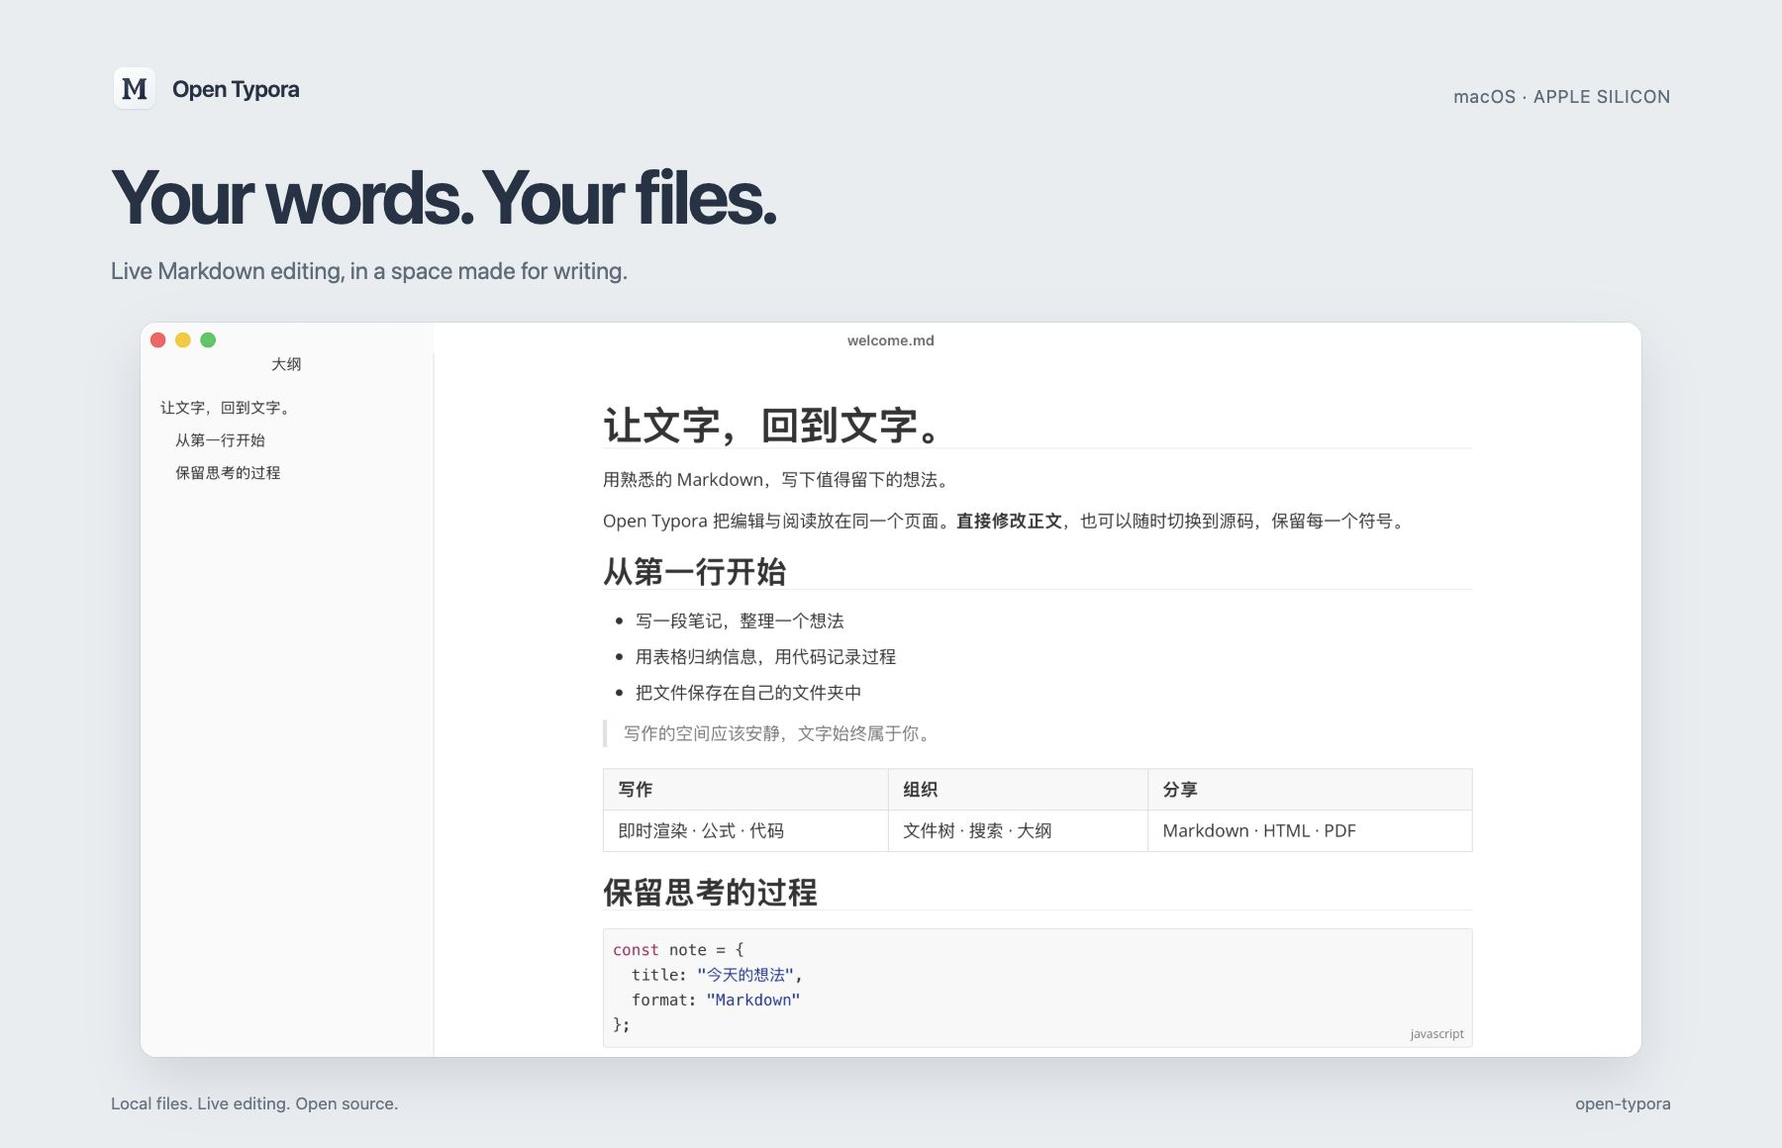
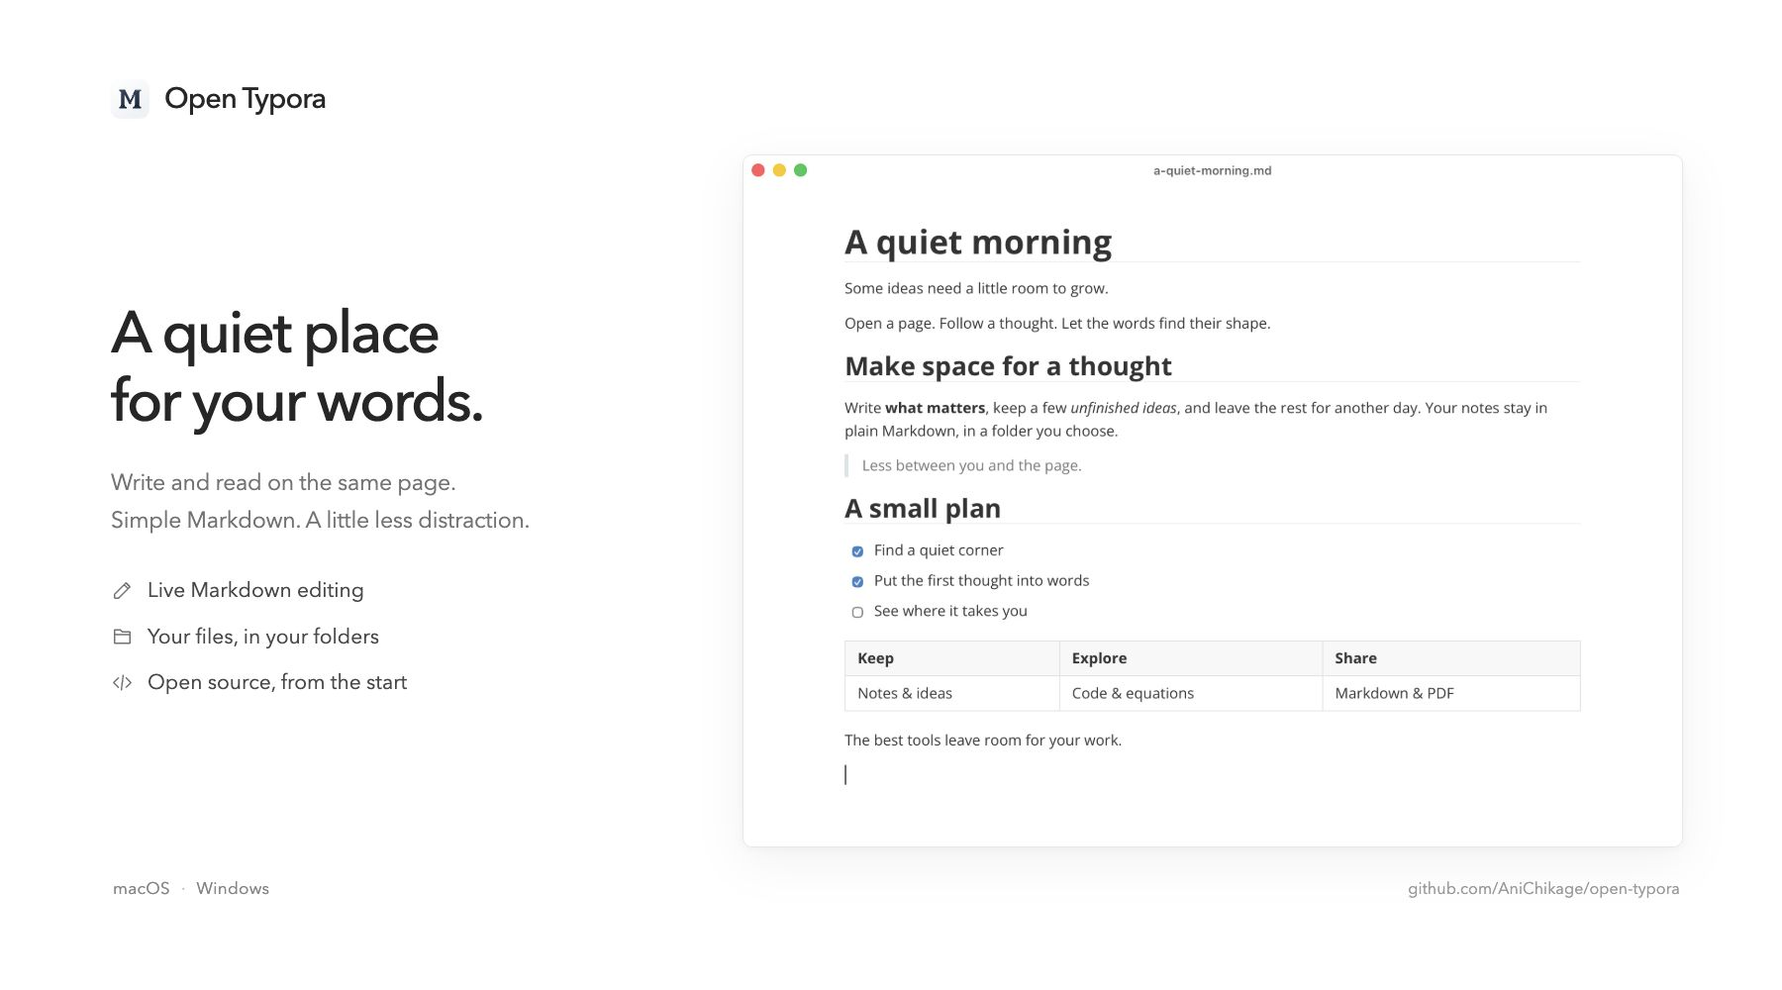
Present the editor in English and document macOS and Windows downloads

diff --git a/design/presentation/hero.html b/design/presentation/hero.html
@@ -1,25 +1,24 @@
 <!doctype html>
 <html lang="en">
 <meta charset="utf-8">
-<title>Open Typora · Product image</title>
+<meta name="viewport" content="width=device-width,initial-scale=1">
+<title>Open Typora — A quiet place for your words</title>
 <style>
-*{box-sizing:border-box}html,body{margin:0;width:1800px;height:1160px;overflow:hidden}body{font-family:-apple-system,BlinkMacSystemFont,"Helvetica Neue","PingFang SC",sans-serif;color:#243247;background:#e9edf0}.canvas{width:1800px;height:1160px;position:relative;padding:65px 112px}.brand{display:flex;align-items:center;gap:14px;font-size:23px;font-weight:600;letter-spacing:-.5px}.brand img{width:48px;height:48px}.platform{position:absolute;right:112px;top:86px;color:#5f6c7a;font-size:18px;letter-spacing:1px}.title{font-size:76px;line-height:1.1;letter-spacing:-3px;font-weight:650;margin:42px 0 16px}.subtitle{margin:0;color:#5e6c7c;font-size:24px;line-height:1.5}.window{position:absolute;left:142px;top:326px;width:1516px;height:742px;border-radius:16px;overflow:hidden;background:#fff;box-shadow:0 22px 54px #24324722,0 0 0 1px #24324712}.window img{display:block;width:100%;height:auto}.footer{position:absolute;bottom:36px;left:112px;color:#667485;font-size:17px;letter-spacing:.2px}.footer-right{left:auto;right:112px}.zh .title{font-size:75px;letter-spacing:1px;font-weight:600}
+*{box-sizing:border-box}html,body{margin:0;width:1800px;height:1000px;overflow:hidden}body{font-family:"Avenir Next",Avenir,"Segoe UI",sans-serif;color:#262626;background:#fff}.canvas{position:relative;width:1800px;height:1000px}.brand{position:absolute;top:78px;left:110px;display:flex;align-items:center;gap:13px;font-size:29px;font-weight:500;letter-spacing:-.9px}.brand img{width:43px;height:43px}.copy{position:absolute;left:112px;top:302px;width:558px}.copy h1{font-size:59px;line-height:1.18;letter-spacing:-2.1px;font-weight:500;margin:0 0 28px}.description{font-size:23px;line-height:1.65;letter-spacing:-.25px;color:#737373;margin:0;max-width:475px}.features{margin:37px 0 0;padding:0;list-style:none;display:grid;gap:18px;font-size:21px;color:#494949}.features li{display:flex;align-items:center;gap:14px}.features svg{width:23px;height:23px;fill:none;stroke:#727272;stroke-width:1.5;stroke-linecap:round;stroke-linejoin:round}.window{position:absolute;left:750px;top:156px;width:950px;height:700px;border-radius:10px;overflow:hidden;background:white;border:1px solid #e7e7e7;box-shadow:0 14px 48px #0000000e,0 2px 7px #00000008}.window img{display:block;width:100%;height:auto}.platform{position:absolute;left:114px;bottom:91px;font-size:17px;color:#858585;letter-spacing:.25px}.platform span{padding:0 11px;color:#c4c4c4}.credit{position:absolute;right:103px;bottom:91px;font:16px "Avenir Next",Avenir,sans-serif;color:#999;letter-spacing:.1px}
 </style>
 <main class="canvas">
   <div class="brand"><img src="../icon.svg" alt="">Open Typora</div>
-  <div class="platform">macOS · APPLE SILICON</div>
-  <h1 class="title">Your words. Your files.</h1>
-  <p class="subtitle">Live Markdown editing, in a space made for writing.</p>
-  <div class="window"><img src="editor-window.png" alt="Actual Open Typora macOS application showing outline navigation, live Markdown, a table and a code block."></div>
-  <div class="footer">Local files. Live editing. Open source.</div>
-  <div class="footer footer-right">open-typora</div>
+  <section class="copy">
+    <h1>A quiet place<br>for your words.</h1>
+    <p class="description">Write and read on the same page.<br>Simple Markdown. A little less distraction.</p>
+    <ul class="features">
+      <li><svg viewBox="0 0 24 24" aria-hidden="true"><path d="M4 20h4L20 8l-4-4L4 16v4Z M14 6l4 4"/></svg>Live Markdown editing</li>
+      <li><svg viewBox="0 0 24 24" aria-hidden="true"><path d="M4 5h6l2 2h8v12H4V5Z M4 10h16"/></svg>Your files, in your folders</li>
+      <li><svg viewBox="0 0 24 24" aria-hidden="true"><path d="m8 7-5 5 5 5m8-10 5 5-5 5m-3-13-2 16"/></svg>Open source, from the start</li>
+    </ul>
+  </section>
+  <div class="window"><img src="editor-window.jpg" alt="The actual Open Typora macOS app editing an English Markdown document, with formatted text, tasks and a table."></div>
+  <div class="platform">macOS<span>·</span>Windows</div>
+  <div class="credit">github.com/AniChikage/open-typora</div>
 </main>
-<script>
-if(new URLSearchParams(location.search).get('lang')==='zh'){
- document.documentElement.lang='zh-CN';document.body.classList.add('zh');
- document.querySelector('.title').textContent='让文字，回到文字。';
- document.querySelector('.subtitle').textContent='直接编辑 Markdown 正文，让写作自然发生。';
- document.querySelector('.footer').textContent='本地文件 · 即时编辑 · 开源';
-}
-</script>
 </html>

diff --git a/README.md b/README.md
@@ -8,14 +8,14 @@
 
 <p align="center">
   English · <a href="README.zh-CN.md">简体中文</a><br>
-  <a href="https://github.com/AniChikage/open-typora/releases/latest">Download for macOS</a> · <a href="#features">Features</a> · <a href="#getting-started">Getting started</a> · <a href="CONTRIBUTING.md">Contributing</a> · <a href="LICENSE">MIT License</a>
+  <a href="https://github.com/AniChikage/open-typora/releases/latest">Download</a> · <a href="#features">Features</a> · <a href="#getting-started">Getting started</a> · <a href="CONTRIBUTING.md">Contributing</a> · <a href="LICENSE">MIT License</a>
 </p>
 
 ![Open Typora — live Markdown editing in the native macOS app](docs/images/hero.png)
 
 Open Typora is an open-source Markdown editor inspired by Typora's inline editing experience. Write directly in the rendered document, switch to source when you need it, and save ordinary `.md` files in your own folders.
 
-**Status:** early development, version **0.5.1**. The supported build target is **macOS 14+ on Apple Silicon**. The interface is currently in Simplified Chinese. This is an independent project, unaffiliated with Typora; full feature and behavior parity is still in progress.
+**Status:** early development, version **0.5.2**. Release builds support **macOS 14+ on Apple Silicon** and **Windows 10/11 x64**. The interface is currently in Simplified Chinese. This is an independent project, unaffiliated with Typora; full feature and behavior parity is still in progress.
 
 ## Features
 
@@ -30,9 +30,24 @@ See the [feature checklist](docs/feature-parity.md) for coverage and known diffe
 
 ## Getting started
 
+### Downloads
+
+| Platform | Installer | Alternative |
+| --- | --- | --- |
+| Windows 10/11 · x64 | **[Download Setup.exe](https://github.com/AniChikage/open-typora/releases/download/v0.5.2/Open-Typora-0.5.2-windows-x64-Setup.exe)** | [ZIP](https://github.com/AniChikage/open-typora/releases/download/v0.5.2/Open-Typora-0.5.2-windows-x64.zip) |
+| macOS 14+ · Apple Silicon | **[Download DMG](https://github.com/AniChikage/open-typora/releases/download/v0.5.2/Open-Typora-0.5.2-arm64.dmg)** | [ZIP](https://github.com/AniChikage/open-typora/releases/download/v0.5.2/Open-Typora-0.5.2-arm64.zip) |
+
+[SHA-256 checksums](https://github.com/AniChikage/open-typora/releases/download/v0.5.2/SHA256SUMS.txt) · [All releases](https://github.com/AniChikage/open-typora/releases)
+
+### Install on Windows
+
+Run **Setup.exe**, choose an installation folder, and launch Open Typora from the Start menu. The installer also provides an optional desktop shortcut and Markdown file associations. Updates install into the same application folder; uninstalling preserves your recovery data.
+
+The Windows build is currently **not code-signed**. Windows may display an unknown-publisher or SmartScreen notice. Only use downloads from this repository's Releases page and verify the checksum if needed.
+
 ### Install on macOS
 
-1. Download **[Open-Typora-0.5.1-arm64.dmg](https://github.com/AniChikage/open-typora/releases/download/v0.5.1/Open-Typora-0.5.1-arm64.dmg)** from [Releases](https://github.com/AniChikage/open-typora/releases/latest).
+1. Download **[Open-Typora-0.5.2-arm64.dmg](https://github.com/AniChikage/open-typora/releases/download/v0.5.2/Open-Typora-0.5.2-arm64.dmg)** from [Releases](https://github.com/AniChikage/open-typora/releases/latest).
 2. Open the DMG and drag **Open Typora** into **Applications**.
 3. Launch Open Typora from Applications.
 
@@ -42,7 +57,7 @@ The application is locally signed and **not Apple-notarized**. macOS may ask you
 
 ### Build from source
 
-Build the macOS application from source. You need **Node.js 26**, npm, and the **Xcode Command Line Tools** (`xcode-select --install`). A Typora installation is not required.
+Both platforms need **Node.js 26** and npm. A Typora installation is not required. On macOS, also install the **Xcode Command Line Tools** (`xcode-select --install`).
 
 ```sh
 git clone https://github.com/AniChikage/open-typora.git
@@ -59,23 +74,29 @@ node scripts/install.mjs
 
 Quit a running Open Typora before replacing it. The installer preserves application data and removes the previous application after verifying the replacement. The build also produces a ZIP in `release/native/`; `npm run package:release` builds the DMG and checksum file too.
 
-Builds use a local ad hoc signature and are **not Apple-notarized**. Intel Macs, Windows, and Linux do not yet have verified release builds.
+On Windows, use the same clone and install steps, then build the installer:
+
+```sh
+npm run package:win
+```
+
+The EXE installer and ZIP are written to `release/windows/`. Build Windows releases on Windows x64. Intel Macs, Windows ARM, and Linux do not yet have verified release builds.
 
 For additional document formats, install [Pandoc](https://pandoc.org/installing.html), then select its executable in Preferences if it is not detected. Pandoc is optional for writing Markdown and exporting HTML/PDF.
 
 ### First steps
 
-Open a Markdown file or a folder, or try [the example document](examples/welcome.md). Click the text to edit it. Enter continues a list or creates a paragraph; Tab moves through table cells.
+Open a Markdown file or a folder, or try [the example document](examples/a-quiet-morning.md). Click the text to edit it. Enter continues a list or creates a paragraph; Tab moves through table cells.
 
-| Action | macOS shortcut |
-| --- | --- |
-| New document | `⌘N` |
-| Open a file | `⌘O` |
-| Save | `⌘S` |
-| Toggle source view | `⌘/` |
-| Find in the document | `⌘F` |
-| Search the folder | `⌘⇧F` |
-| Quick open | `⌘⇧O` |
+| Action | macOS | Windows |
+| --- | --- | --- |
+| New document | `⌘N` | `Ctrl+N` |
+| Open a file | `⌘O` | `Ctrl+O` |
+| Save | `⌘S` | `Ctrl+S` |
+| Toggle source view | `⌘/` | `Ctrl+/` |
+| Find in the document | `⌘F` | `Ctrl+F` |
+| Search the folder | `⌘⇧F` | `Ctrl+Shift+F` |
+| Quick open | `⌘⇧O` | `Ctrl+Shift+O` |
 
 ## Development
 
@@ -84,7 +105,7 @@ npm ci
 npm run dev:app
 ```
 
-The development host uses Electron. The packaged macOS app uses **Swift/AppKit + WKWebView** with a TypeScript/React interface and an independently implemented editing model.
+The Windows app and development host use **Electron/Chromium**. The macOS app uses **Swift/AppKit + WKWebView**. Both share the same TypeScript/React interface and independently implemented editing model.
 
 ```sh
 npm test                  # Editor and file-layer unit tests
@@ -101,6 +122,7 @@ More editor and desktop suites, test isolation, and build details are in [CONTRI
 - Legacy encodings without a BOM require an explicit encoding choice.
 - Rich editing and source editing have separate undo histories; changes made in source mode join the rich history as one transaction when returning.
 - Format conversion can change layout or unsupported document structures. Some RTF image formats are rejected explicitly. Keep the original file when importing.
+- Windows legacy DOC/RTF import and bulk image file operations are not yet supported. Windows input-method candidate interaction still needs manual acceptance; automated text input is not equivalent to that check.
 - Third-party themes, embedded media, input methods, and image-host integrations vary in compatibility. Consult the [checklist](docs/feature-parity.md) before depending on a specific workflow.
 
 ## Contributing

diff --git a/CONTRIBUTING.md b/CONTRIBUTING.md
@@ -48,7 +48,7 @@ Additional suites:
 | --- | --- | --- |
 | `npm run test:native` | File bytes, atomic saves, recovery, conflicts, and workspace operations | macOS |
 | `npm run test:webkit` | Actual WKWebView, native bridge, document conversion, and PDF export | macOS + Pandoc |
-| `npm run test:desktop` | Editing, images, saving, recovery, and export in Electron | macOS desktop |
+| `npm run test:desktop` | Editing, images, saving, recovery, and export in Electron | macOS or Windows desktop |
 | `npm run test:kernel-desktop` | Code/formula editing, keyboard interactions, and mode history | macOS desktop |
 | `npm run test:features` | Outline, tables, preferences, navigation, and writing modes | macOS desktop |
 | `npm run test:alignment` | File workflows, themes, images, and conversion | macOS desktop + Pandoc |
@@ -70,6 +70,10 @@ node scripts/install.mjs
 
 Use `npm run package:preview` for a separate preview application and data directory when checking a change without touching your normal session. Native builds are locally signed, not Apple-notarized.
 
+On Windows x64, run `npm run package:win` to create the NSIS EXE installer, ZIP, and checksums in `release/windows/`. The same original M icon is generated as a multi-resolution ICO. The Windows package contains only the two runtime file-bridge dependencies; frontend libraries are already bundled.
+
+After packaging on Windows, `npm run test:windows` installs the EXE into an isolated temporary folder, runs the desktop suite against the installed executable, checks Unicode document arguments, single-instance opening and file-association registration, and uninstalls the application. It preserves recovery data. Evidence goes to `OPEN_TYPORA_QA_DIR` in the runner temporary directory. This is automated acceptance on a Windows Server runner, not a manual Windows 10/11 IME check.
+
 ## Project layout
 
 | Path | Purpose |
@@ -77,7 +81,7 @@ Use `npm run package:preview` for a separate preview application and data direct
 | `src/editor/` | Markdown model, rendering, source mapping, and edit transactions |
 | `src/components/` | Dialogs and navigation |
 | `native/` | AppKit/WebKit host, files, images, and conversion |
-| `electron/` | Development and desktop regression host |
+| `electron/` | Windows release host, development, and desktop regression |
 | `shared/` | Commands and starter documents shared by the hosts |
 | `tests/` | Unit, native, and desktop integration tests |
 | `design/` | Original icon and design sources |
@@ -88,4 +92,4 @@ Do not commit generated bundles, test output, credentials, personal documents, o
 
 ## Publish a release
 
-Set the package version, commit the change, and push a matching `v<version>` tag. The [release workflow](.github/workflows/release.yml) runs on an Apple Silicon macOS runner, checks the version, runs unit/native tests, and publishes the DMG, ZIP, and SHA-256 checksums. An existing draft keeps its curated release notes. Published assets are never overwritten by a rerun.
+Set the package version, commit the change, and push a matching `v<version>` tag. The [release workflow](.github/workflows/release.yml) builds on Apple Silicon macOS and Windows x64 runners. Both builds and all required tests, including installation and installed-app regression on Windows, must pass before the publication job merges the checksums and publishes the DMG, Windows EXE, both ZIPs, and `SHA256SUMS.txt`. Update `docs/release-notes.md` for each version. Main-branch host changes also run the Windows acceptance job without publishing. An existing draft keeps its curated release notes. Published assets are never overwritten by a rerun.

diff --git a/docs/feature-parity.md b/docs/feature-parity.md
@@ -1,6 +1,6 @@
 # Typora 功能对齐清单
 
-当前交付版本：**0.5.1，macOS arm64**。基准为本机 Typora 1.14.10 的菜单、实际交互和官方公开文档。功能存在、自动化通过与完整等价是不同结论；未验证的组合不写成已对齐。
+当前交付版本：**0.5.2，macOS arm64 / Windows x64**。基准为本机 Typora 1.14.10 的菜单、实际交互和官方公开文档。功能存在、自动化通过与完整等价是不同结论；未验证的组合不写成已对齐。
 
 公开依据：[Markdown](https://support.typora.io/Markdown-Reference/)、[文件管理](https://support.typora.io/File-Management/)、[图片](https://support.typora.io/Images/)、[导出](https://support.typora.io/Export/)、[HTML](https://support.typora.io/HTML/)、[快捷键](https://support.typora.io/Shortcut-Keys/)。REA 的静态证据及覆盖边界见 [research.md](research.md)。
 
@@ -31,6 +31,6 @@
 | Word/RTF/ODT 与 Pandoc | 已实现，有依赖边界 | 本机 Pandoc 3.12.1 实际生成 10 种格式，DOCX/ODT/RTF/EPUB 中文复杂样本重新导入；DOCX 原生公式、表格、脚注、图片结构已检查。导出嵌入图表与图片；文本格式保留同名资源目录。RTF 额外保留表格/脚注/PNG/JPEG/标题/代码；WMF/EMF、脚注内图片拒绝而非静默丢失。其他任意格式组合未穷尽 |
 | CSS 主题安装 | 已实现并回归 | 导入本地 CSS、内嵌引用字体/图片、正文/侧栏选择器映射；不是所有第三方主题内部选择器都与本内核兼容 |
 | 安装更新与旧版本清理 | 已实现并回归 | M 图标保留；验证新包后替换安装版并删除临时回滚包；只保留当前版本归档。用户文档/草稿不属于版本清理对象 |
-| Windows/Linux、签名公证 | 未交付 | 本轮安装目标为此台 Mac；Electron 用作开发/回归宿主。跨平台发布及 Developer ID 公证需要单独发布环境 |
+| Windows、其他平台与签名 | 部分交付 | Windows x64 提供 NSIS EXE / ZIP，由 Windows runner 安装后验证编辑、保存、PDF、图片、恢复、单实例与文件关联；Windows 10/11 实体候选交互尚未人工验收。Windows ARM / Linux / Intel Mac 未交付；Windows 无代码签名证书，macOS 未公证 |
 
-剩余项为其他输入法及列表/表格/局部代码的完整候选组合、未覆盖的跨应用剪贴板/复杂跨块编辑、第三方主题与图形扩展，以及其他操作系统发布。复杂转换覆盖已列样本和目标格式，无法代表任意格式无损往返。**0.5.1 仍不能标为 Typora 全功能完全等价**；外部图床真实上传仍需独立配置与验收。
+剩余项为其他输入法及列表/表格/局部代码的完整候选组合、未覆盖的跨应用剪贴板/复杂跨块编辑、第三方主题与图形扩展，以及 Windows 实体输入法、旧 DOC/RTF 导入和批量图片操作，其他操作系统发布。复杂转换覆盖已列样本和目标格式，无法代表任意格式无损往返。**0.5.2 仍不能标为 Typora 全功能完全等价**；外部图床真实上传仍需独立配置与验收。

diff --git a/design/brand.md b/design/brand.md
@@ -5,8 +5,8 @@
 - 纸白 `#ffffff`、底座阴影色 `#edf1f5`。
 - 墨蓝 `#35465e` / `#1d2a3e`、顶边灰蓝 `#6d8cae`。
 - 1024 方形画布，底座四周留 64 单位；标记居中，以实际 16/32/64/128 像素检查识别度。
-- 应用图标和“关于”窗口共用这份源文件。`scripts/icon.mjs` 生成 PNG 与 ICNS，不再单独绘制一份标记。
+- 应用图标和“关于”窗口共用这份源文件。`scripts/icon.mjs` 生成 PNG、Windows ICO 与 macOS ICNS，不再单独绘制一份标记。
 
-README 展示图使用 `presentation/hero.html` 排版，`presentation/editor-window.png` 为真实 macOS 应用截图，成品位于 `docs/images/hero*.png`。界面素材保留原始像素，展示框裁去下方留白；标题、背景和窗口框由 HTML/CSS 生成。中英文共用同一布局，中文使用 `?lang=zh`。
+README 展示图使用 `presentation/hero.html` 排版，`presentation/editor-window.jpg` 为真实 macOS 应用截图，打开的是 `examples/a-quiet-morning.md`。产品图统一使用英文；中英文 README 共用 `docs/images/hero.png`。白底、轻量标题、留白和独立窗口参考 Typora 官网的展示节奏，素材与文案均为本项目原创。截图只裁去底部状态区，保留实际文档、标题栏和窗口控件；不重绘或翻译应用像素。应用界面目前仍为简体中文。
 
 DMG 安装背景源文件为 `dmg-background.svg`；`scripts/package-dmg.mjs` 生成 1×/2× 背景和 Finder 图标布局，将已经签名的原生应用封装为拖拽安装磁盘。

diff --git a/examples/a-quiet-morning.md b/examples/a-quiet-morning.md
@@ -1,0 +1,23 @@
+# A quiet morning
+
+Some ideas need a little room to grow.
+
+Open a page. Follow a thought. Let the words find their shape.
+
+## Make space for a thought
+
+Write **what matters**, keep a few *unfinished ideas*, and leave the rest for another day. Your notes stay in plain Markdown, in a folder you choose.
+
+> Less between you and the page.
+
+## A small plan
+
+- [x] Find a quiet corner
+- [x] Put the first thought into words
+- [ ] See where it takes you
+
+| Keep | Explore | Share |
+| :--- | :--- | :--- |
+| Notes & ideas | Code & equations | Markdown & PDF |
+
+The best tools leave room for your work.

diff --git a/docs/architecture.md b/docs/architecture.md
@@ -1,6 +1,6 @@
-# 编辑架构（0.5.1）
+# 编辑架构（0.5.2）
 
-macOS 的发布包使用 Swift/AppKit + WKWebView。Electron 保留为跨平台开发与 Chromium 回归测试宿主，不是 `package:mac` 或 `install:app` 的发布入口。
+macOS 的发布包使用 Swift/AppKit + WKWebView。Windows 发布包使用 Electron/Chromium，并保留为跨平台开发与回归测试宿主；macOS 的 `package:mac` 与 `install:app` 仍使用原生宿主。Windows 使用系统标题栏、Ctrl 快捷键与单实例文件打开，`package:win` 生成 NSIS 安装包与 ZIP。
 
 ```mermaid
 flowchart TD
